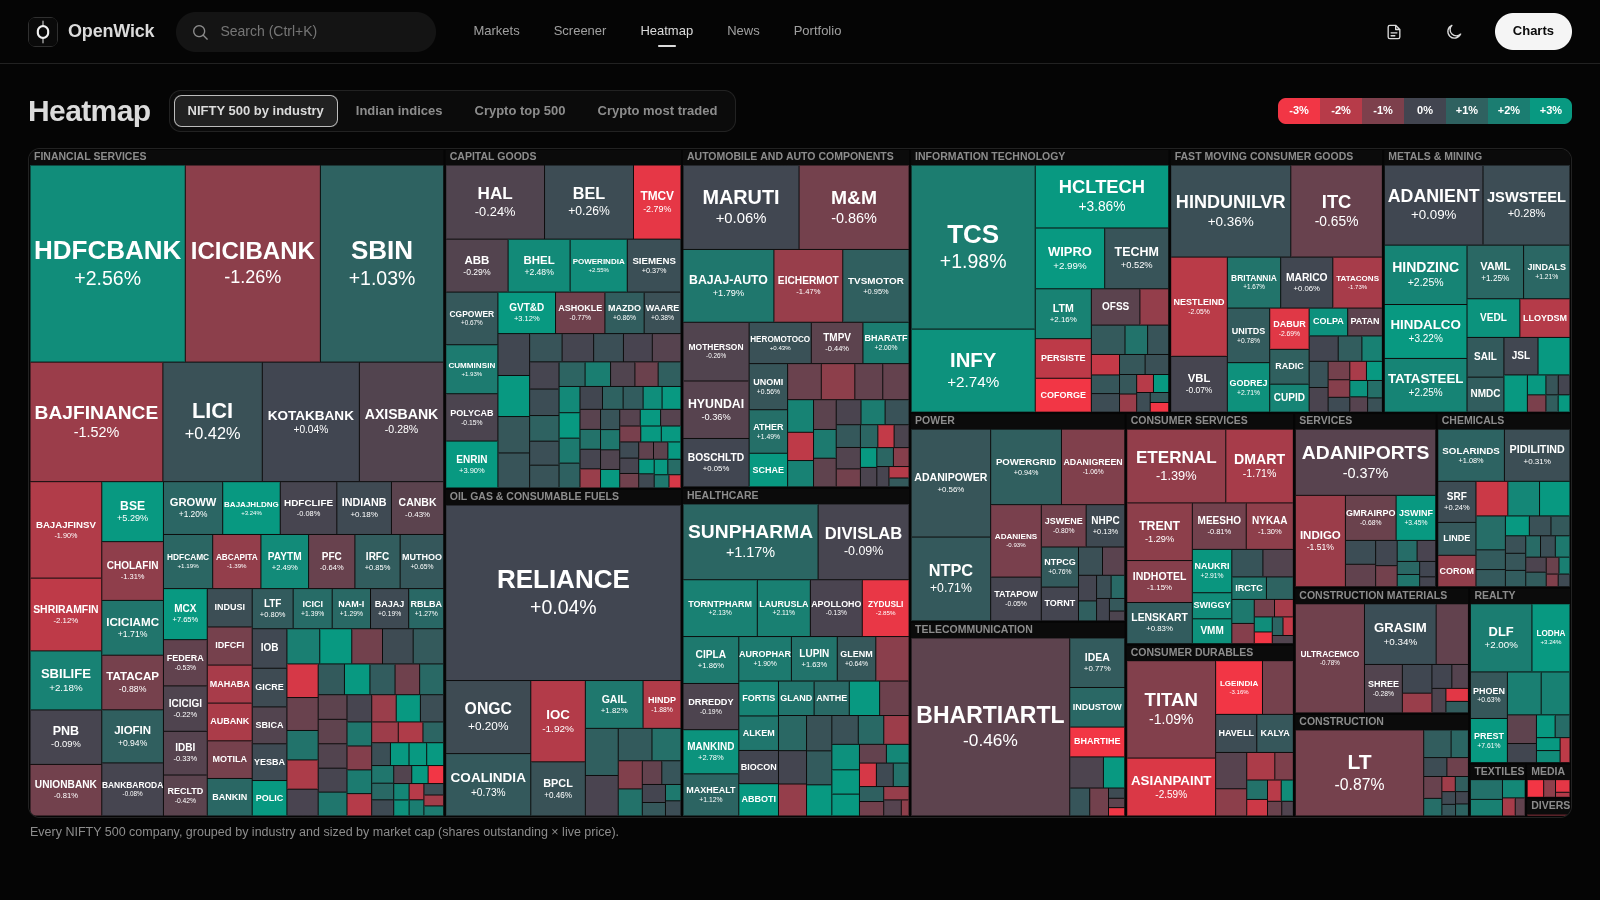
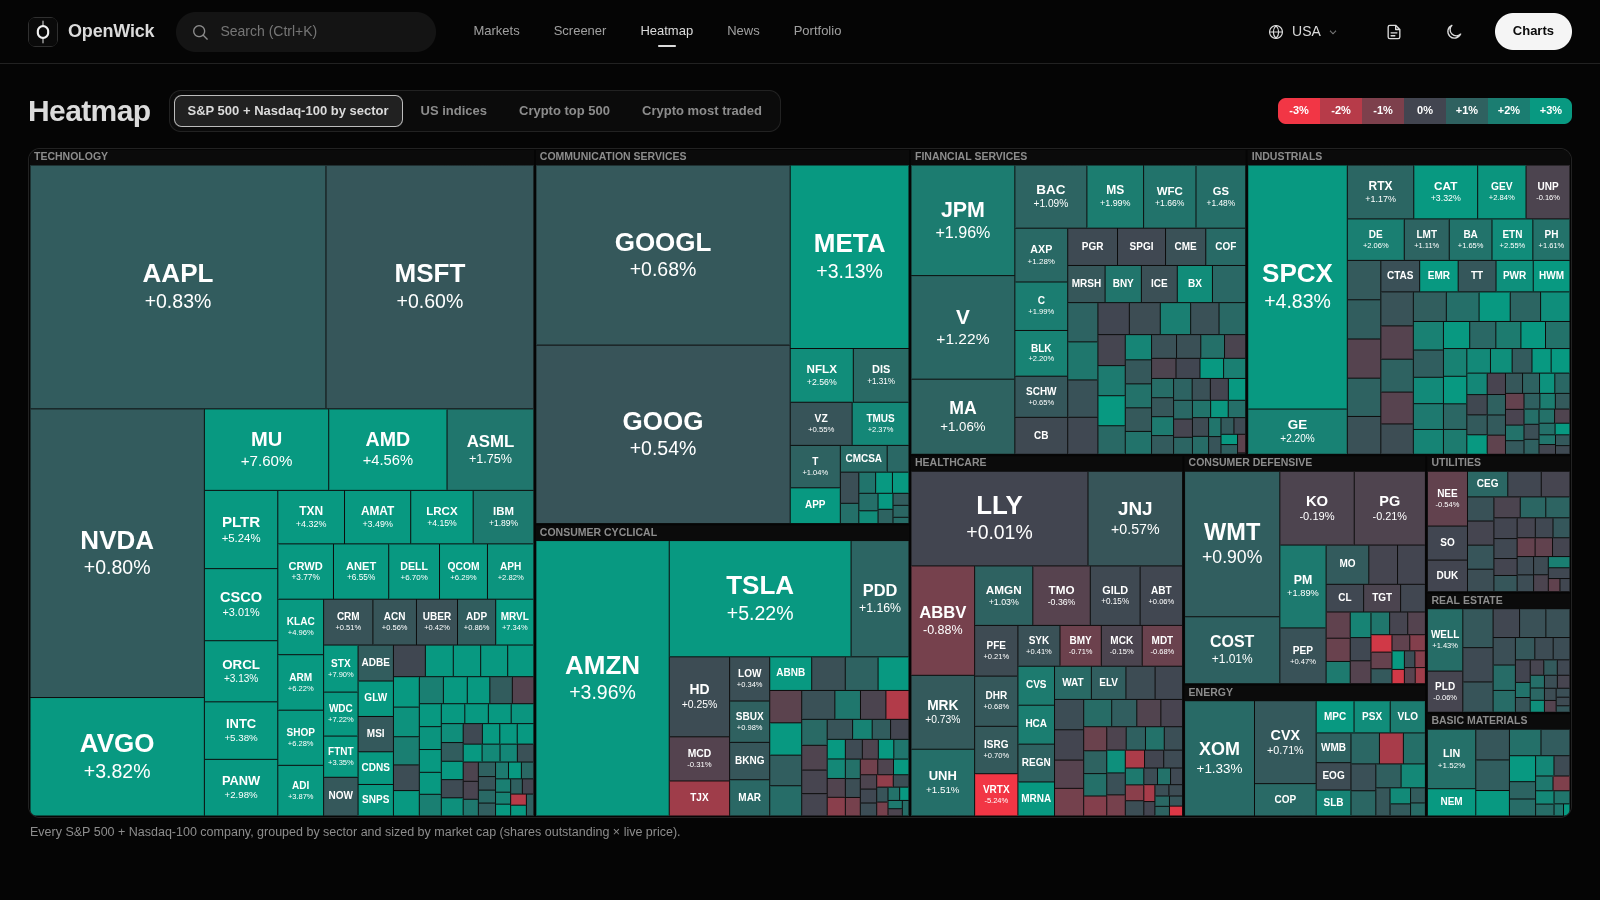
New README screenshots: international markets, new top bar, market dot and indicators

diff --git a/README.md b/README.md
@@ -28,11 +28,11 @@ Every country gets the same pages: movers and breadth, the screener with company
 | | |
 |---|---|
 | ![Technical ratings](docs/screenshots/technicals.png) | ![A company page](docs/screenshots/symbol.png) |
-| **Technical ratings**: oscillators and moving averages, on any timeframe | **Company pages**: price, key stats, technicals, financials, seasonals |
+| **Technical ratings**: oscillators and moving averages, on any timeframe (here Reliance) | **Company pages**: price, key stats, technicals, financials, seasonals, in the company's own currency (here Toyota) |
 | ![Screener](docs/screenshots/screener.png) | ![Heatmap](docs/screenshots/heatmap.png) |
-| **Screener**: NIFTY 500, indices and crypto, with ready-made screens | **Heatmap**: every NIFTY 500 company by industry and size |
+| **Screener**: each country's main list, its indices and crypto, with ready-made screens (here the FTSE 350) | **Heatmap**: every company in a country's main list by sector and size (here the S&P 500 + Nasdaq-100) |
 | ![Markets](docs/screenshots/markets.png) | ![Notes](docs/screenshots/notes.png) |
-| **Markets**: today's gainers, losers and sectors, and breadth for every index | **Notes**: trade plans with risk and reward, investment theses and a journal |
+| **Markets**: today's gainers, losers and sectors, and breadth for every index (here India) | **Notes**: trade plans with risk and reward, investment theses and a journal |
 
 ## Install
 
